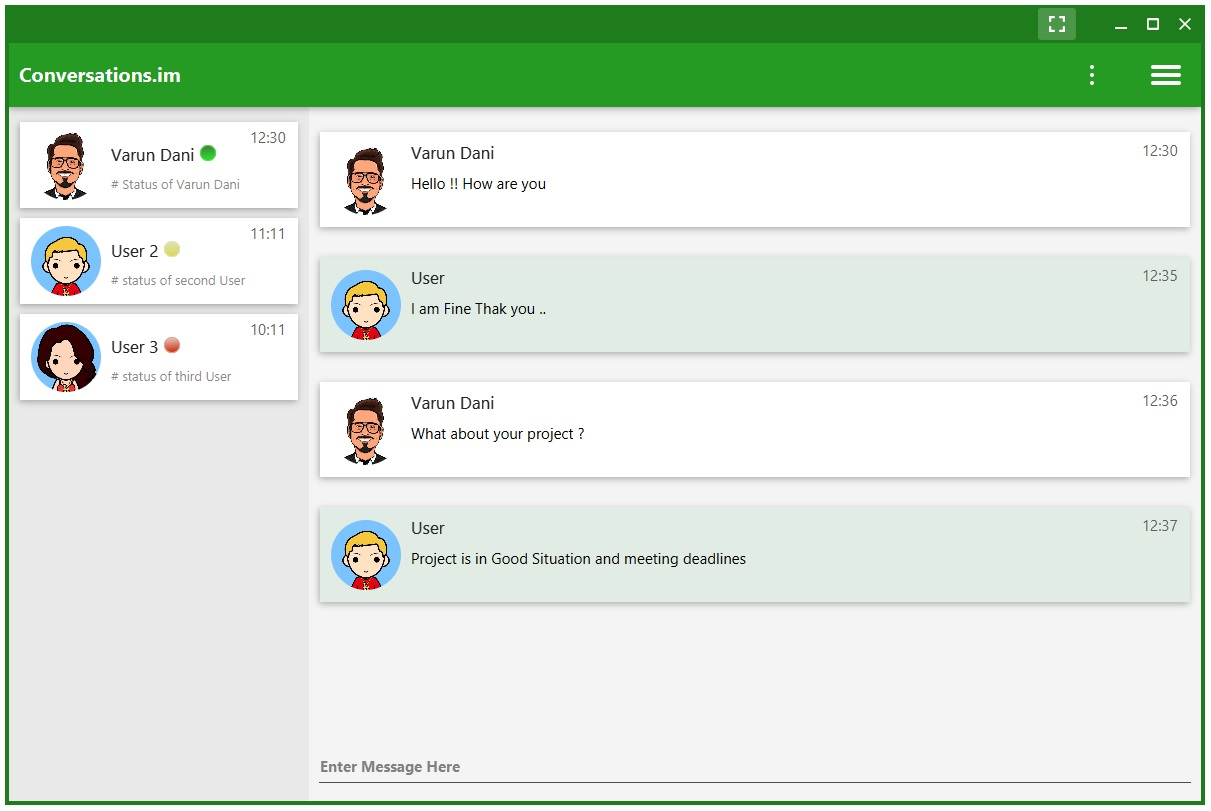
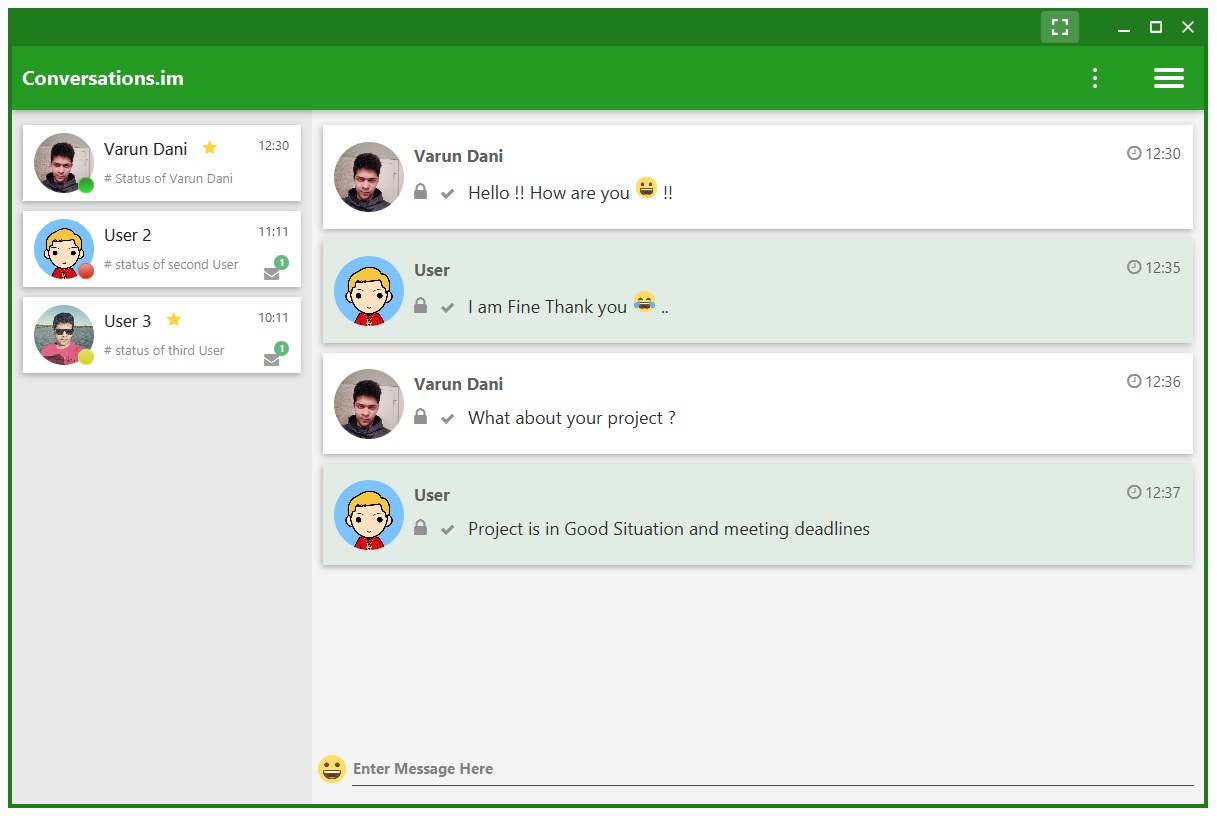
ReadME File Changes for Layout animations and Screens
ReadME File Changes for Layout animations, Screens AND references.

Changed region(s): [[0.0, 0.0, 1.0, 1.0]]

diff --git a/README.md b/README.md
@@ -2,12 +2,20 @@ Conversations Design (JavaFX)
 -----------------------------
 
 **Description:** 
-This design is made for Conversation.im Project. The Folder contain Eclipse Project and static desogn layout developed with help of materialized design principles and related to conversation layout.
+
+This design is made for Conversation.im Project (Teaser task). 
+
+**/ChatClientDemo :** The Folder contain Eclipse Project and static design layout developed with help of materialized design principles and related to conversation layout.
+
+**/ExecutableJAR:**  This folder contains executable JAR file and supported resource file. (Execution instructions are mentioned in below steps)
 
 
 **How to Run :**
 
-For Windoes -> Browse to Folder /ExecutableJAR and run command (Latest JDK Required ): 
+For Windows User :
+
+ 1. Fork repository or Download repository as zip. 
+ 2. Browse to Folder /ExecutableJAR and run command (jdk : 1.8.121 ): 
 
 > java -cp conversations-design-javafx.jar;lib/*;. im.conversations.app.launch.MainDemo
 
@@ -15,31 +23,66 @@ For Windoes -> Browse to Folder /ExecutableJAR and run command (Latest JDK Requi
 **Screen layout :**
 
 
-1. Main Chat Window Screen
+**1. Main Chat Window Screen**
+
+Main chat window includes left user panel, right panel for selection and center panel for chat messages. All components are developned in materialized template and flow according to main screen layout.
 
 ![](/SupportedFiles/mainScreen.jpg?raw=true)
 
 
-2. User Selection Screen (User can be selected from left chat pannel)
+**2. User Selection (left panel)**
 
-![](/SupportedFiles/UserSelection.jpg?raw=true)
+User can be selected from left chat panel. Ripple color can be customized for user or group.
+Status circle (online, Away, Busy) is independent component from screen and can be customized dynamically at run time.
 
-
-3. Channel or Group Selection right menu (on clicking right menu)
-
-![](/SupportedFiles/channelSelection.jpg?raw=true)
+![](/SupportedFiles/userSelection.gif?raw=true)
 
 
-4. Options pop-up menu
+**3. Channel or Group Selection right menu**
 
-![](/SupportedFiles/optionMenu.jpg?raw=true)
-
-
-5. Materialized Message Box Layout at bottom of Chat Window
-
-![](/SupportedFiles/msgBox.jpg?raw=true)
+Channels or Individual person selection can also be perform with click of right menu
+Avatar Image and shadow of image are dynamic components and can be configured run time. Also Icons in channel and user selection window can be bind dynamically.
+![](/SupportedFiles/rightPanel.gif?raw=true)
 
 
-6. Can initiate New Message after Entering Text and pressing Enter Key.
+**4. Options pop-up menu**
 
-![](/SupportedFiles/newMsg.jpg?raw=true)
+
+![](/SupportedFiles/popUpMenu.gif?raw=true)
+
+
+**5. Materialized Message Box Layout at bottom of Chat Window**
+
+Materialize Text Support provided to Text Field for Entering Chat.
+
+![](/SupportedFiles/textBoxSelection.gif?raw=true)
+
+
+**6. Can initiate New Message after Entering Text and pressing Enter Key.**
+
+For prototype Added Emoji Support at time of message and it will be extended by clicking left emoji button 
+Three formats supported for current implementation
+
+~smile~ : for Smiling 
+~laugh~ : for Laughing
+~heart~ : for heart
+
+![](/SupportedFiles/emojiSupport.gif?raw=true)
+
+
+**Contribution : **
+If you like creation of design and want to implement in your project: Instead of copying please contact me I would love to contribute open source community. 
+
+Varun Dani
+dani.varun.36@gmail.com
+
+
+References : 
+https://developers.google.com/open-source/gsoc/
+https://developers.google.com/open-source/gsoc/resources/media
+https://summerofcode.withgoogle.com/organizations/5092439766335488/
+http://www.jfoenix.com/index.html
+https://www.billmann.de/2013/07/03/javafx-custom-listcell/
+https://bitbucket.org/sco0ter/babbler/
+http://emojipedia.org/
+http://emojione.com/
